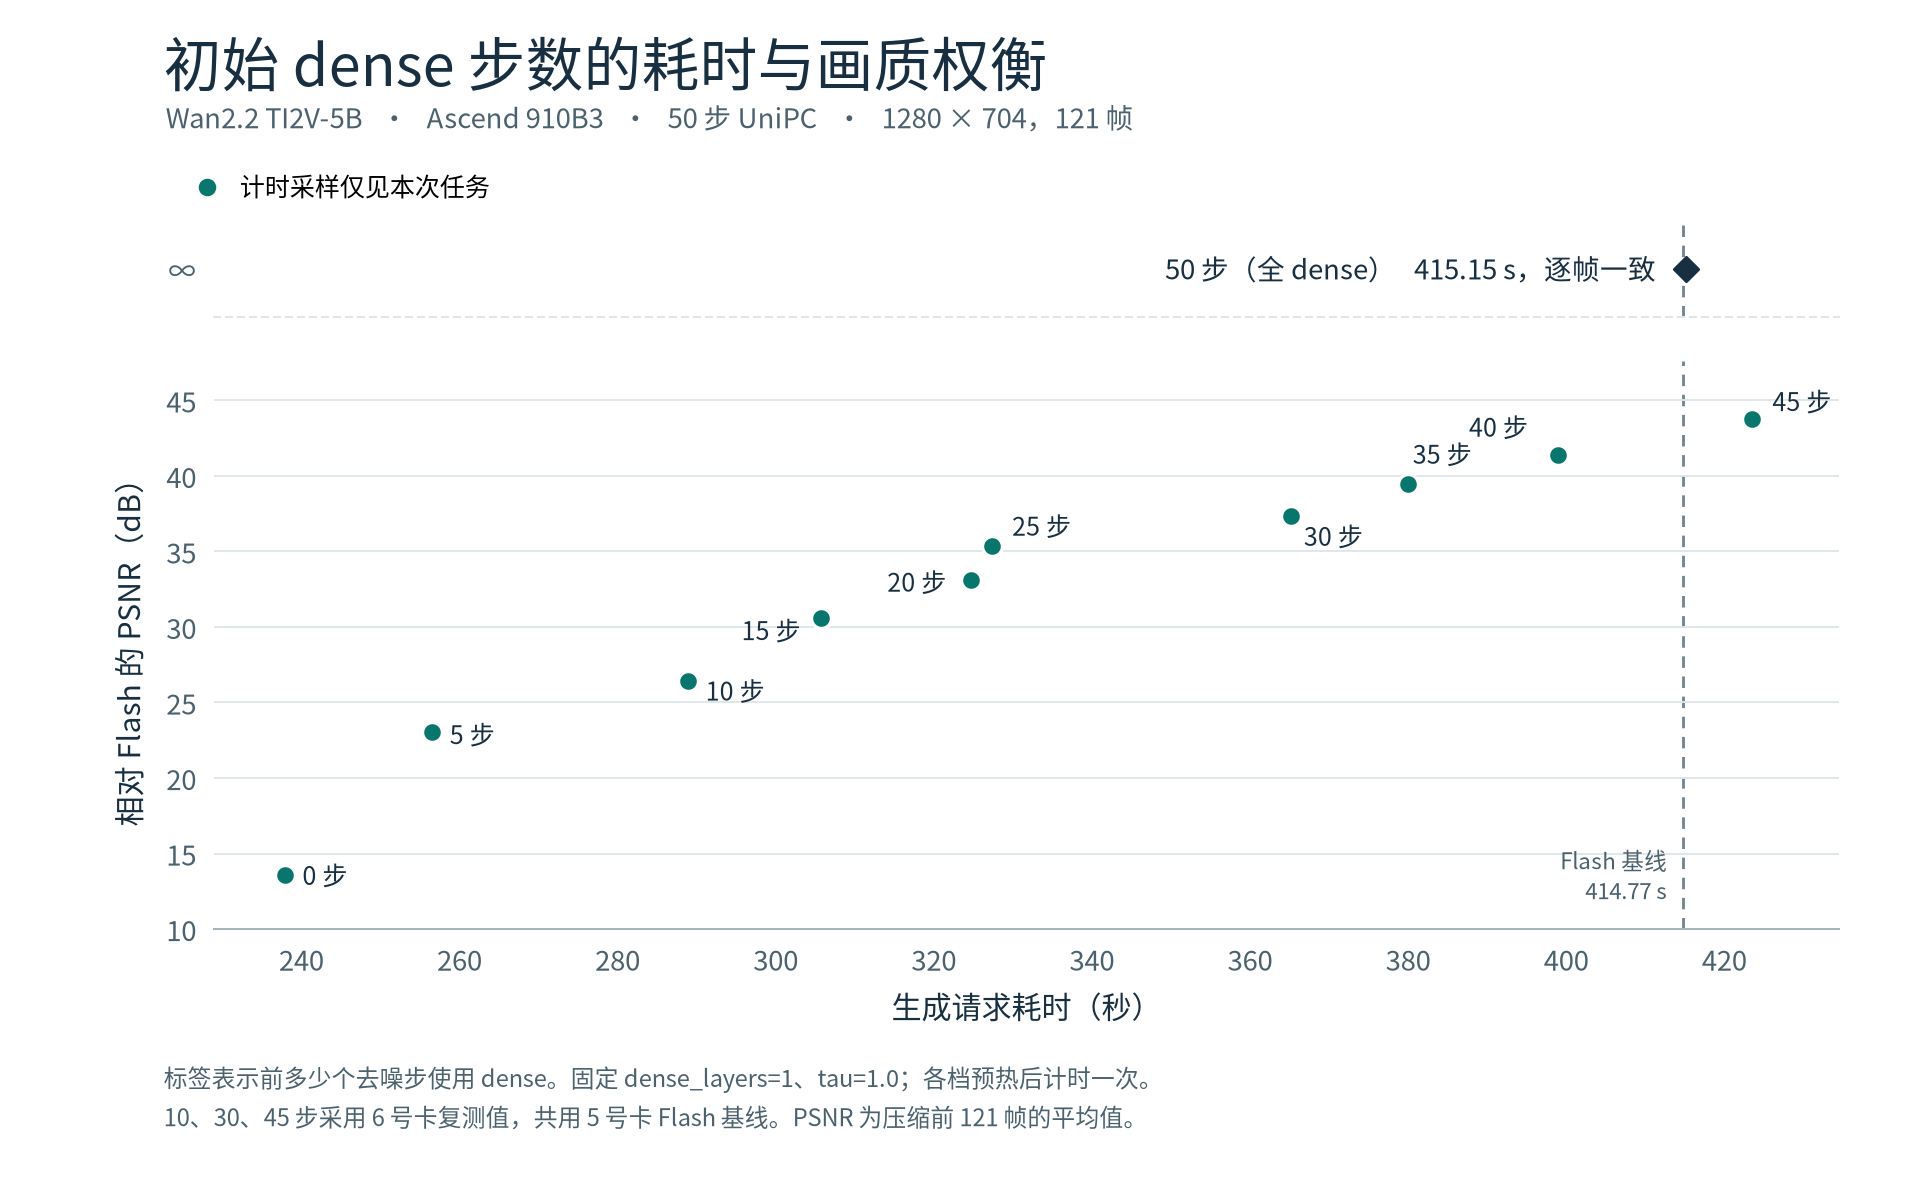
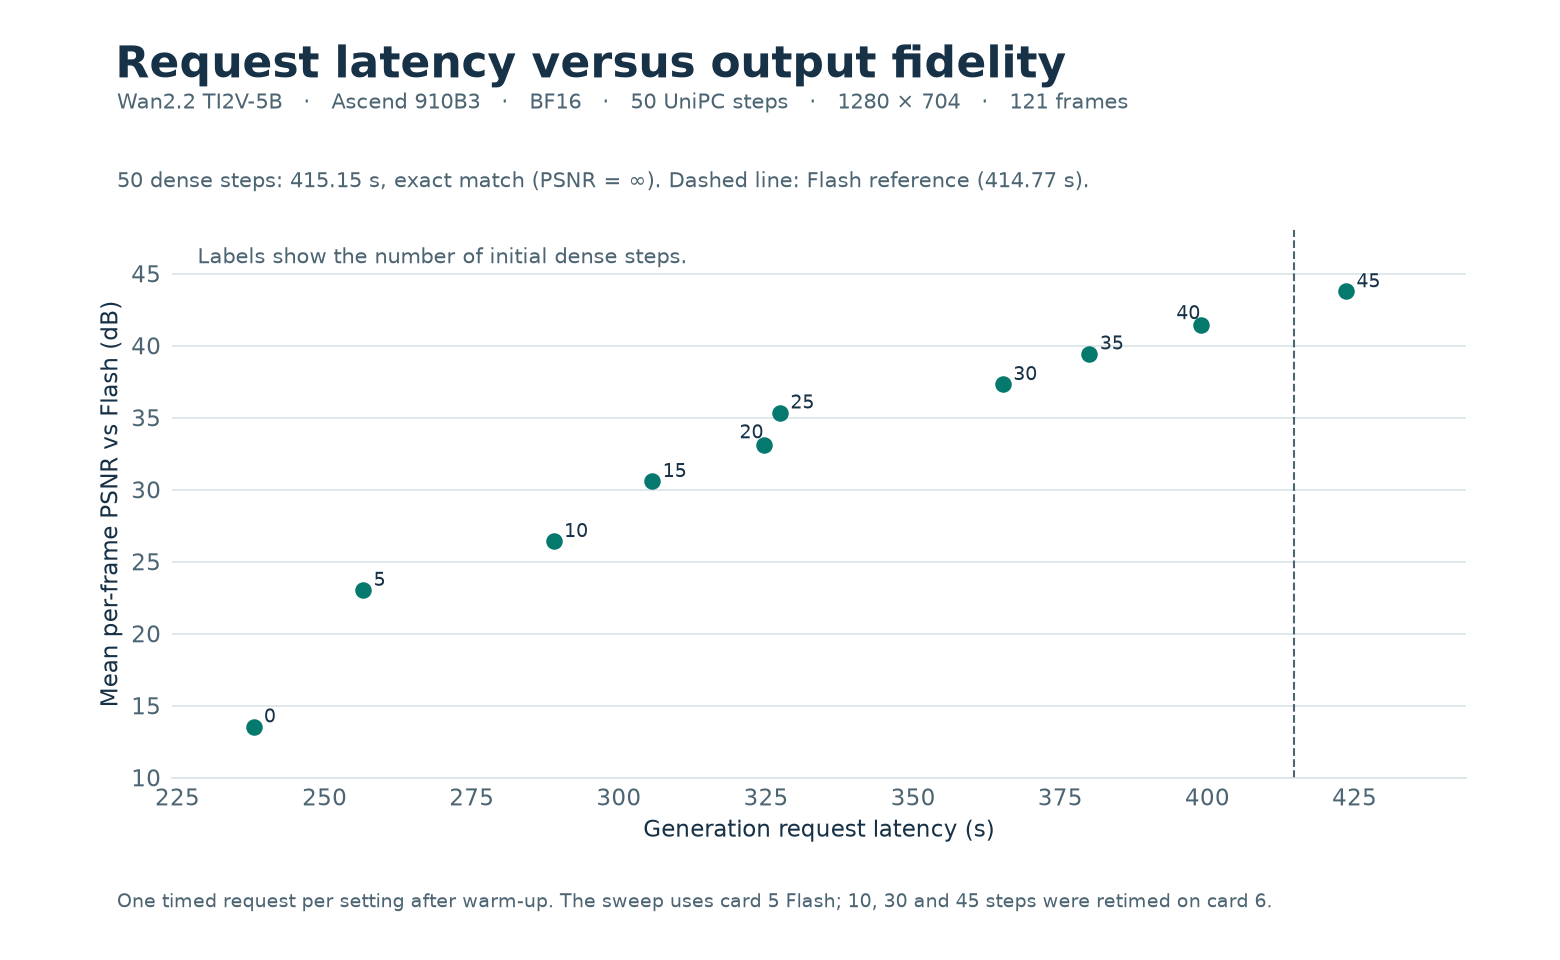
[Docs] Publish English Wan2.2 benchmark figures and matched video frames

diff --git a/review/wan2.2-sol-attn/agent-review.md b/review/wan2.2-sol-attn/agent-review.md
@@ -1,13 +1,21 @@
-# Wan2.2 Sol-Attn 独立 agent review
+# Independent agent review of Wan2.2 Sol-Attn
 
[1 lines of base64/hex data omitted]
+On 2026-11-25, the independent review covered tracked and newly added files on
+`features/wan2.2-sol-attn` against base `a57d6d1a7`. The final review covered
[1 lines of base64/hex data omitted]
 
-| 初审发现 | 处理结果 |
+| Initial finding | Resolution |
 | --- | --- |
-| MindIE-SD 仅支持 BF16。显式选择 FP16 时，原实现可能先完成 dense 步，到第一次 Sol 调用才报错。 | 改为初始化时拒绝不兼容的 dtype，添加 FP16 回归单测。 |
-| 两步真机样例依赖仓库外脚本。 | 在现有离线测试中添加单卡 A2 用例，配置第一步 dense、第二步启用 Sol，并检查输出视频的形状、有限值和像素变化。 |
-| 文档省略帧数等参数，使用 CLI 默认值无法复现 121 帧实验。 | 在 Sol 使用说明中给出 dense 和 diag 并列命令，明确分辨率、帧数、种子、CFG、模型输入和算子提交。 |
+| MindIE-SD Sol supports BF16. With FP16 selected, the previous implementation could finish the dense prefix and fail on the first Sol call. | Reject incompatible dtypes during initialization and cover FP16 with a regression test. |
+| The two-step hardware example depended on an external script. | Add a single-A2 case to the existing offline test. The first step uses dense attention and the second enables Sol. Check the output shape, finite values and pixel variation. |
+| The documented CLI defaults did not reproduce the 121-frame experiment. | Provide paired dense and diag commands with explicit resolution, frame count, seed, CFG, model input and operator revision. |
 
-复核结论为可以进入人工审阅和 Draft 阶段。两步用例验证生成产物；实际 Sol 调用数来自固定输入的 50 步独立路由采集。50 步延时是共享 910B3 上每组一个样本的观测值。测试执行记录见同目录的 `review-tests.log` 和 `review-precommit.log`，性能与画质见 `summary.json`。
+The follow-up review found the changes ready for human review and a draft PR.
+The two-step test checks the generated output. Actual Sol call counts come from
+a separate 50-step routing run with fixed inputs. The 50-step latency results use
+one timed observation per configuration on a shared 910B3. See the [test log](review-tests.log),
+[pre-commit log](review-precommit.log) and [performance and quality measurements](summary.json).
 
-人工审阅、DCO 签署和上游 CI 由贡献者及上游提交流程完成。当前集成对应 MindIE-SD PR 929 的 `6985241966212ee36cc1f10a222e03e8154330e9`。
+At the time of this review, human review, DCO sign-off and upstream CI were
+subsequent steps. The integration used MindIE-SD PR 929 at
+`6985241966212ee36cc1f10a222e03e8154330e9`.

diff --git a/review/wan2.2-sol-attn/dense-step-sweep/README.md b/review/wan2.2-sol-attn/dense-step-sweep/README.md
@@ -12,6 +12,12 @@
 
 The default used its [same-card Flash reference](videos/flash-default-run.mp4) of **419.22 s**. The fallback used the sweep reference of **414.77 s** and matched all uncompressed RGB values. The default benchmark ran on a shared host and NPU. [Default pair and routing results](default-sol.json)
 
+## Generated output comparison
+
+![Matched frames 1, 61 and 121 from FlashAttention and default Sol diag](flash-vs-sol-frames.png)
+
+Both rows use the same prompt and seed (1024). The top row shows FlashAttention and the bottom row shows Sol diag with four initial dense steps. Frames are numbered from one and sampled from the archived MP4s. The quality metrics above use the uncompressed outputs. [Synchronized comparison video (Flash left, Sol right)](../dense-vs-diag.mp4)
+
 ## Dense-prefix ablation
 
 The 11 configurations vary only the dense step prefix, with one dense layer, tau 1.0, 50 UniPC steps, 1280 × 704, 121 frames, 24 fps, CFG 5, flow shift 5 and seed 1024. Each timing covers one measured request after warm-up. Timing and routing used separate processes. The sweep uses a single Flash reference on card 5 for both speed and quality. Cases ran on cards 5 and 6.
